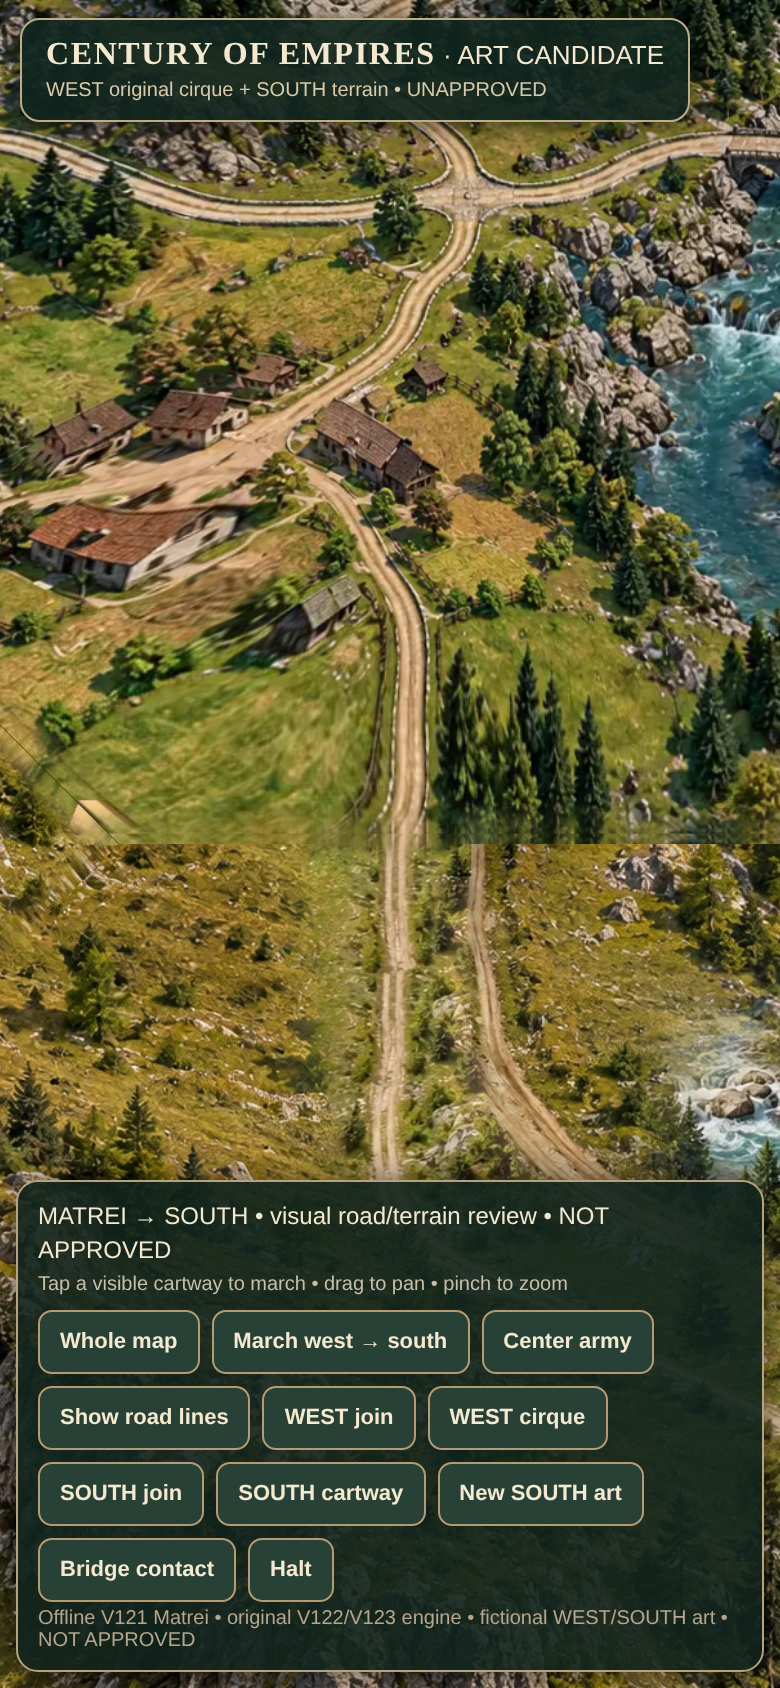
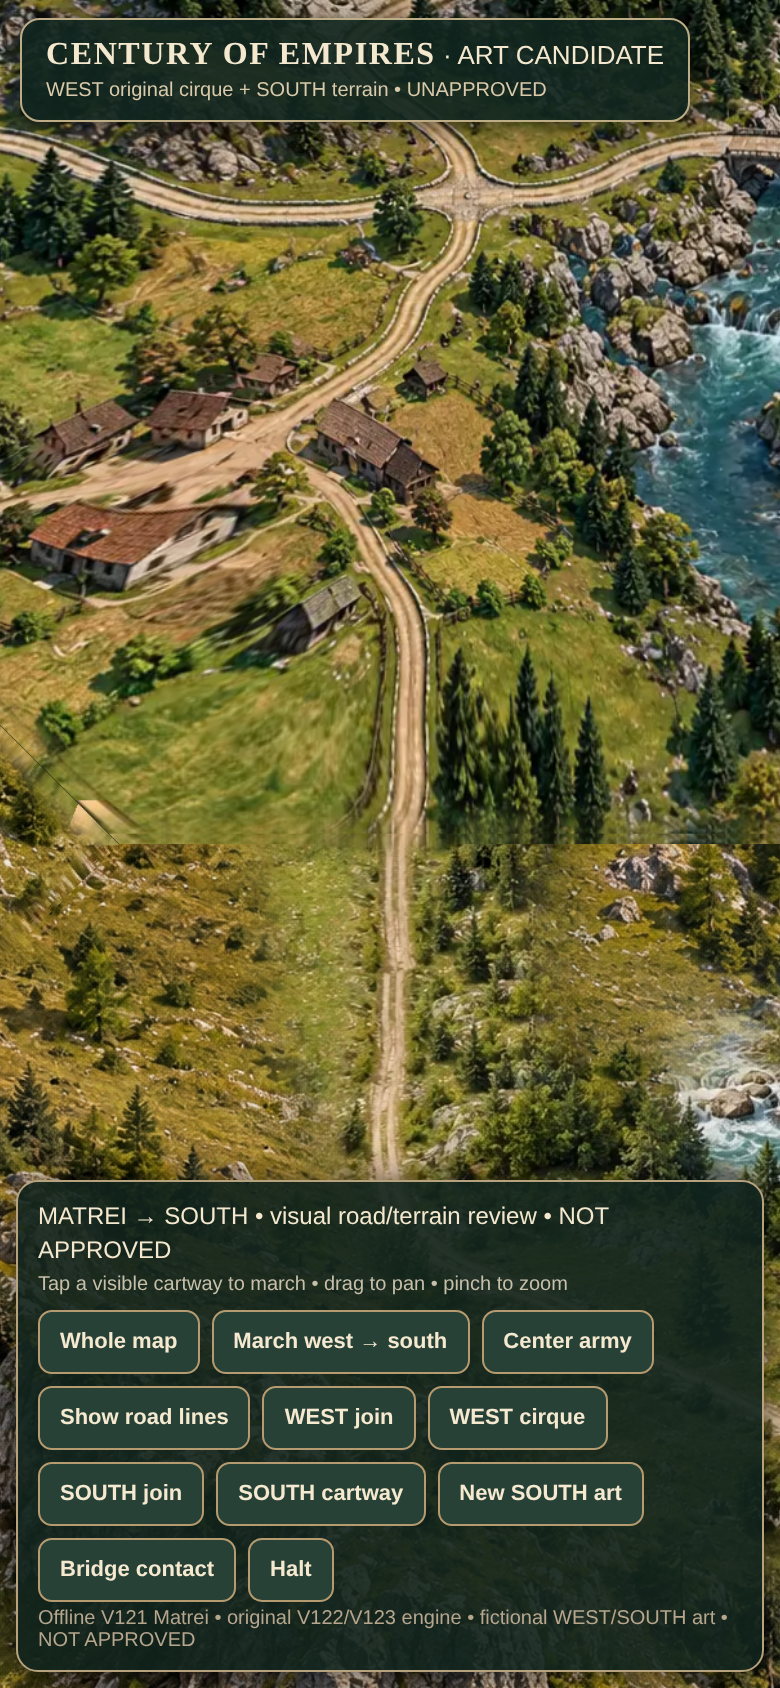
Compose full SOUTH original landscape and preserve actual mobile art evidence

Changed region(s): [[0.5538, 0.4929, 0.8615, 0.7085], [0.3385, 0.4929, 0.4308, 0.6777], [0.9846, 0.8934, 1.0, 0.955]]

diff --git a/art-reviews/v267-whole-south-composition-review.md b/art-reviews/v267-whole-south-composition-review.md
@@ -2,7 +2,7 @@
 
 An independent 1536×1024 near-overhead Alpine landscape now supplies the entire SOUTH forest, mountains and meadows, with a second original photographic source supplying its V123-registered road, native bridge and limestone river gorge. The 2D photographic cartway and physical riverbanks are retained as coherent objects with surrounding ground, not digital road stripes or cloned trees. No source photograph is mirrored, globally warped, tiled or borrowed from Matrei.
 
-Source pixels changed (>8 RGB): 1282549. Candidate: art-reviews/v267-original-source/south-whole-scene-road-river-composition-unapproved.webp.
+Source pixels changed (>8 RGB): 1185039. Candidate: art-reviews/v267-original-source/south-whole-scene-road-river-composition-unapproved.webp.
 
 This is fictional 1780–1880 atmosphere game art, not verified historic topography. V121/V123/V94/sprites/saves untouched. Review ONLY via ?southArt=whole on the SAME isolated V267 preview. Must inspect real 390×844 iPhone-sized WebKit screenshots, road joins, river and forest before any visual approval. Production RED.
 
